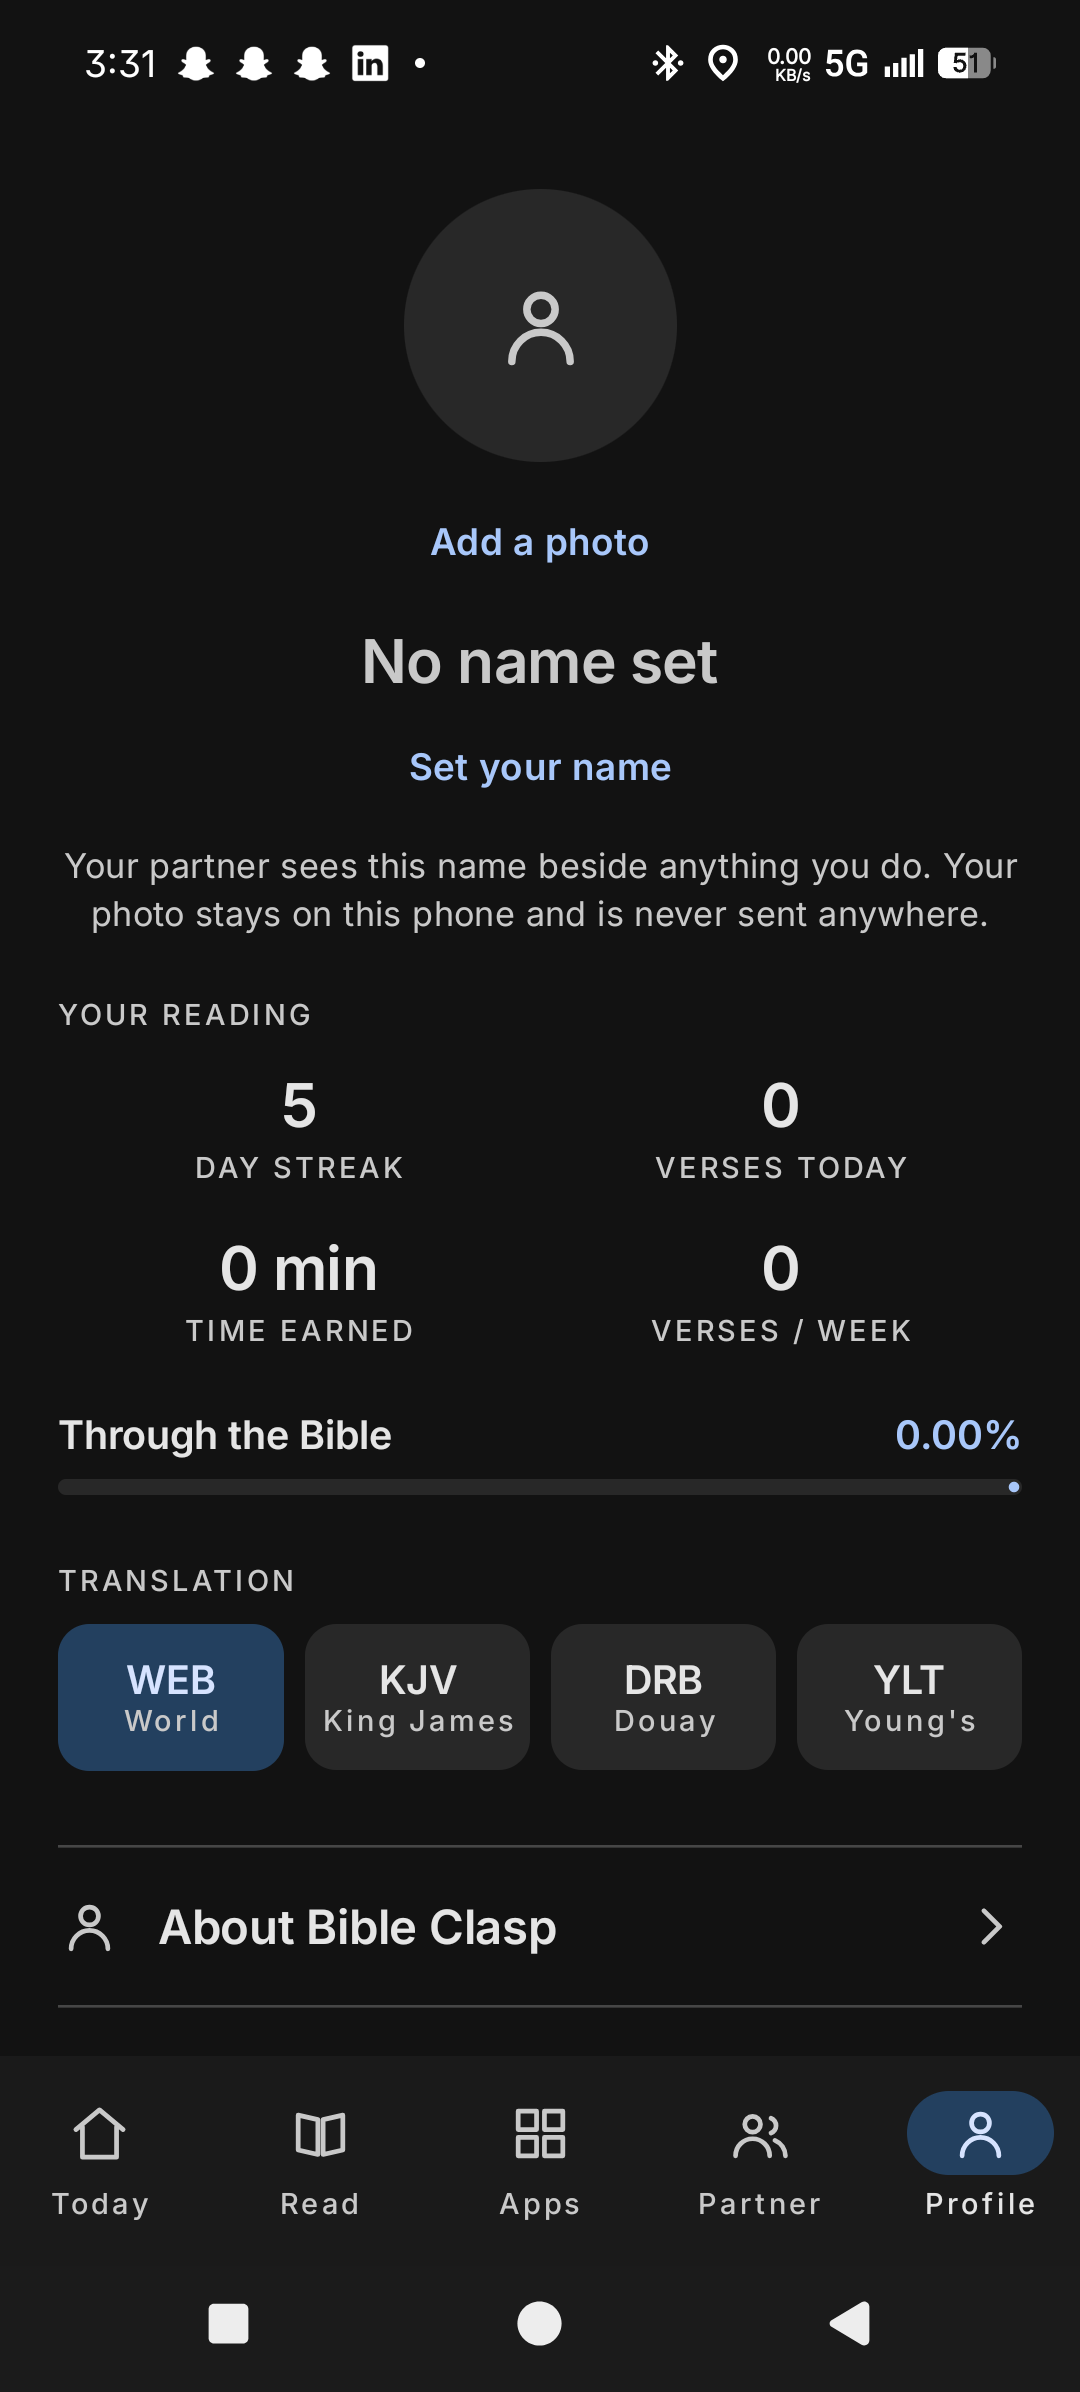
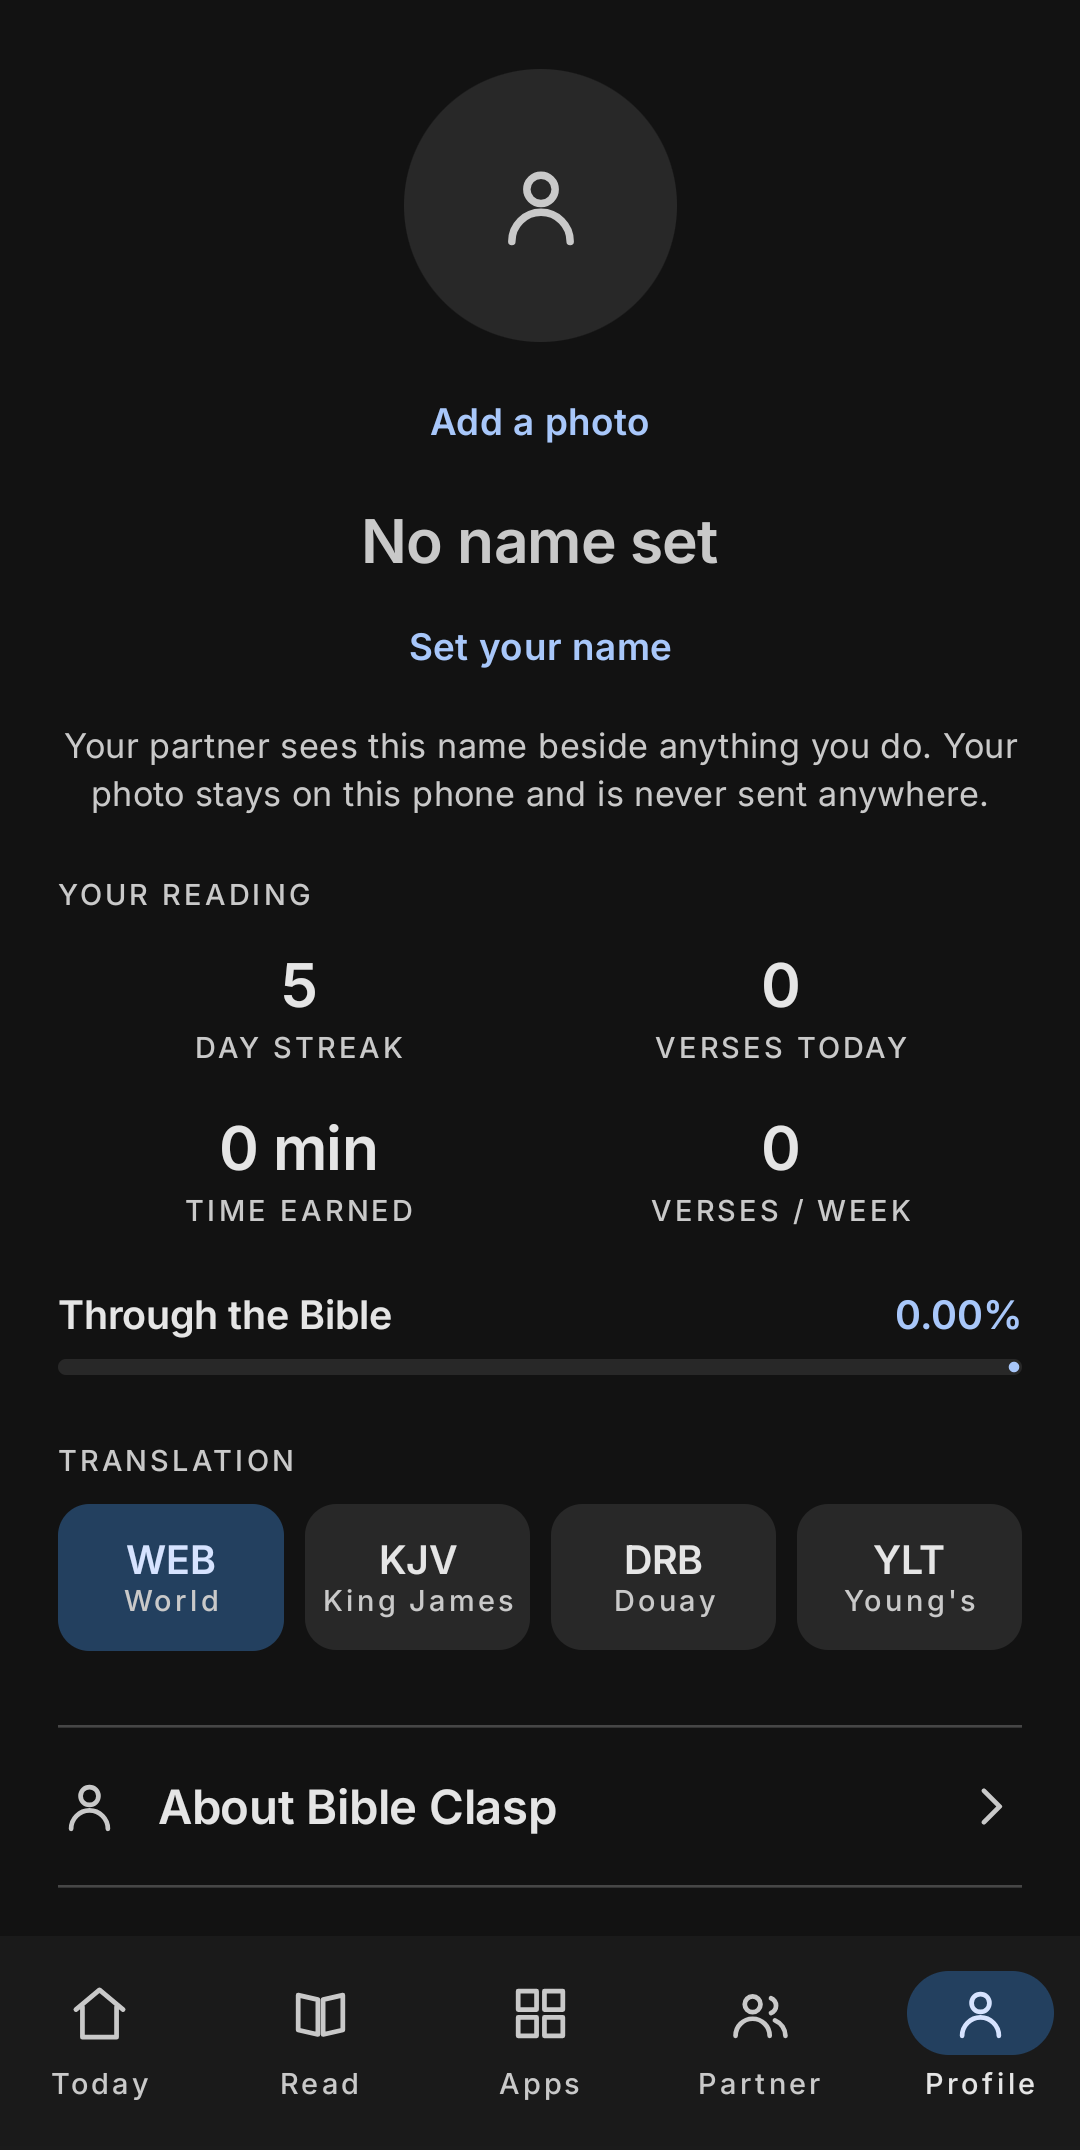
Add files via upload

diff --git a/bible-clasp/index.html b/bible-clasp/index.html
@@ -248,7 +248,7 @@
     </div>
     <div class="hero-actions">
       <a class="btn btn-primary" href="#support">Donate</a>
-      <a class="btn btn-primary" href="https://github.com/zanejamin/bible-app-prototype/releases" target="_blank" rel="noopener noreferrer">Download for Android</a>
+      <a class="btn btn-primary" href="#beta">Download for Android</a>
       <button class="btn btn-ghost" type="button" disabled aria-disabled="true">Download for Apple <small>coming soon</small></button>
       <a class="btn btn-outline" href="#beta">Join the beta</a>
       <a class="btn btn-outline" href="#report">Report a bug</a>
